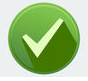
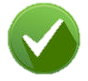
graphical changes

diff --git a/src/uiComponents/pages/RetryPage.java b/src/uiComponents/pages/RetryPage.java
@@ -111,28 +111,41 @@ public class RetryPage extends JPanel implements ActivityPage
 
 
         c.insets = new Insets(10, 0, 10, 20);
-        submitBtn = new JButton("بله بفرست به ایمیلم");
+        ImageIcon imageIcon = new ImageIcon();
+        imageIcon.setImage(new ImageIcon("icons//accept.png").getImage().getScaledInstance(50, 50, 0));
+        submitBtn = new JButton(imageIcon);
         submitBtn.setFont(bodyFont);
         c.ipadx = 0;
         c.ipady = 0;
         c.gridx = 0;
         c.gridy = 2;
         c.gridwidth = 1;
-        c.fill = GridBagConstraints.HORIZONTAL;
+        c.anchor = GridBagConstraints.EAST;
+        c.fill = GridBagConstraints.NONE;
+        submitBtn.setOpaque(false);
+        submitBtn.setContentAreaFilled(false);
+        submitBtn.setBorderPainted(false);
         add(submitBtn, c);
 
 
-
-        JButton retryBtn = new JButton("نه...از اول میندازم");
+        imageIcon = new ImageIcon();
+        imageIcon.setImage(new ImageIcon("icons//deny.png").getImage().getScaledInstance(50, 50, 0));
+        JButton retryBtn = new JButton(imageIcon);
         retryBtn.setFont(bodyFont);
-        c.ipadx = 10;
+        c.ipadx = 0;
         c.ipady = 0;
         c.gridx = 1;
         c.gridy = 2;
         c.gridwidth = 1;
-        c.fill = GridBagConstraints.HORIZONTAL;
-
+        c.anchor = GridBagConstraints.WEST;
+        c.fill = GridBagConstraints.NONE;
+        retryBtn.setOpaque(false);
+        retryBtn.setContentAreaFilled(false);
+        retryBtn.setBorderPainted(false);
         add(retryBtn, c);
+
+
+
         retryBtn.addActionListener(new ActionListener()
         {
             @Override

diff --git a/src/mains/MailMain.java b/src/mains/MailMain.java
@@ -6,6 +6,10 @@ import uiComponents.pages.ImageCapturingPage;
 import uiComponents.pages.MainFrame;
 import uiComponents.pages.RetryPage;
 
+import javax.imageio.ImageIO;
+import java.io.File;
+import java.io.IOException;
+
 public class MailMain
 {
     public static void main(String[] args)
@@ -19,9 +23,13 @@ public class MailMain
         RetryPage.getInstance();
         CatalogEmailSendingPage.getInstance();
 
-//        RetryPage.getInstance().setImage("image.jpg");
+        try {
+            RetryPage.getInstance().setImage(ImageIO.read(new File("image.jpg")));
+        } catch (IOException e) {
+            e.printStackTrace();
+        }
 
-        MainFrame.getInstance().showPanel(EntrancePage.getInstance().getPanelIndex());
+        MainFrame.getInstance().showPanel(RetryPage.getInstance().getPanelIndex());
 //        MainFrame.getInstance().showPanel(CatalogEmailSendingPage.getInstance().getPanelIndex());
 //        MainFrame.getInstance().showPanel(RetryPage.getInstance().getPanelIndex());
 

diff --git a/src/uiComponents/pages/EntrancePage.java b/src/uiComponents/pages/EntrancePage.java
@@ -221,7 +221,6 @@ public class EntrancePage extends GLJPanel implements ActivityPage
                         }
                         EntrancePage.getInstance().repaint();
                     }
-                    System.out.print("f2");
                 }
             }).start();
 
@@ -242,7 +241,6 @@ public class EntrancePage extends GLJPanel implements ActivityPage
     public void beforeDispose()
     {
         EntrancePage.finished=true;
-        System.out.print("f");
     }
 
     @Override
